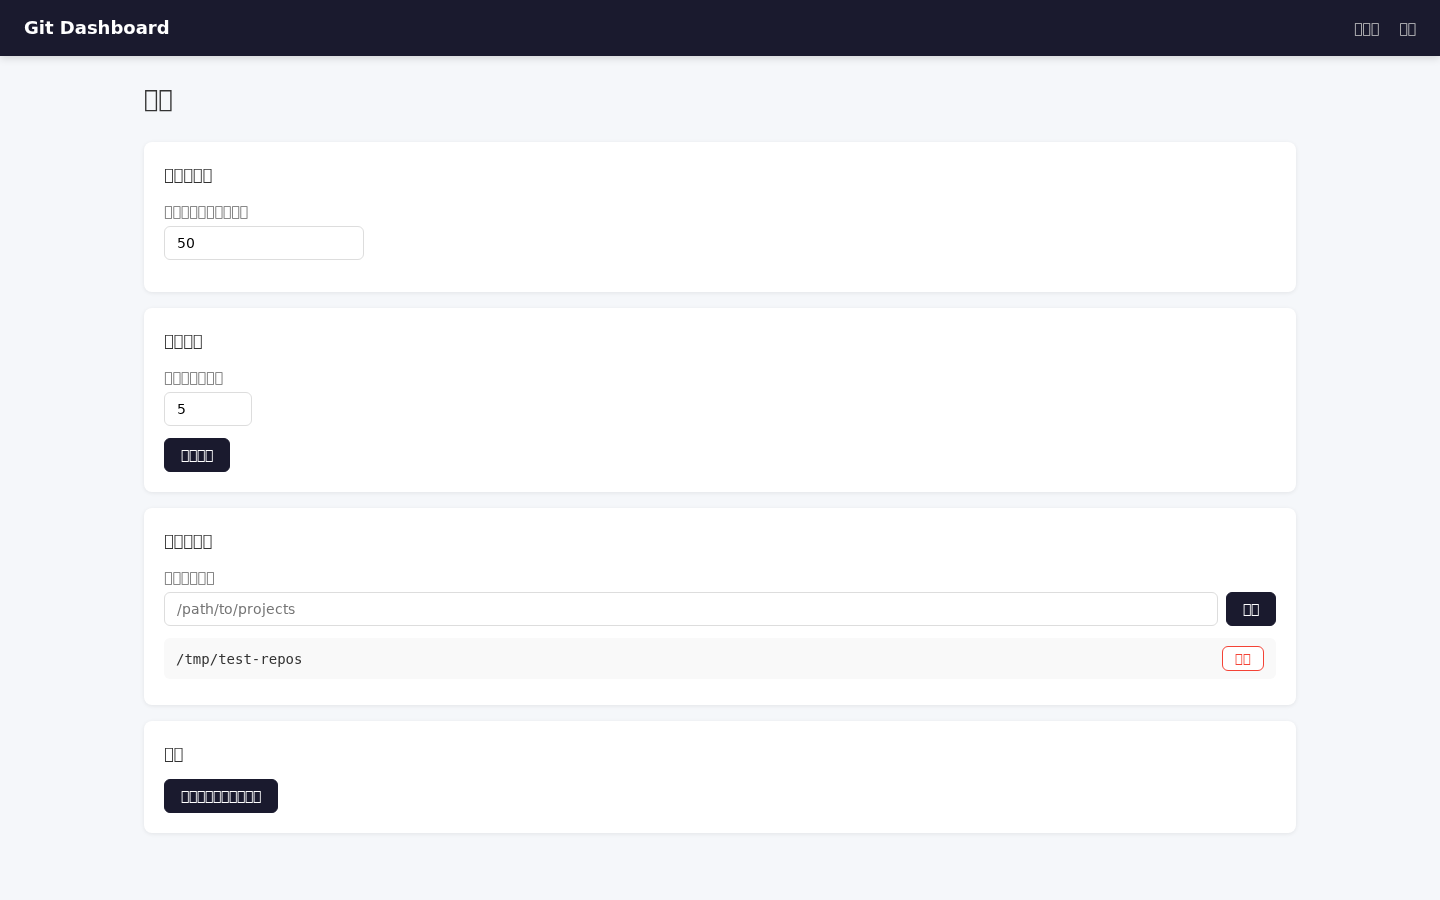
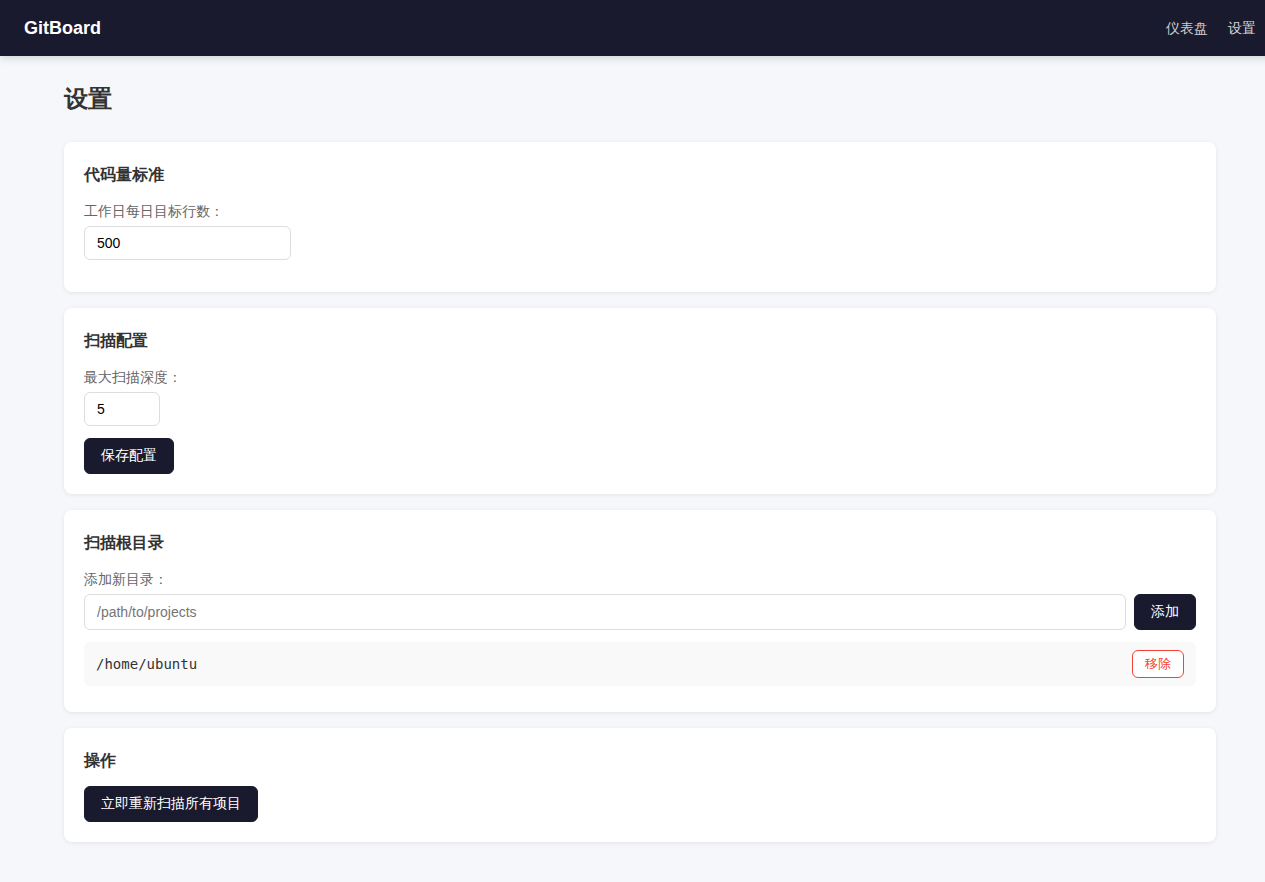
docs: 替换真实截图，修复 API null 崩溃，分离 LICENSE

diff --git a/web/src/api/client.ts b/web/src/api/client.ts
@@ -72,7 +72,7 @@ async function request<T>(url: string, options?: RequestInit): Promise<T> {
 
 export function getProjects(date?: string): Promise<Project[]> {
   const params = date ? `?date=${date}` : ''
-  return request<Project[]>(`/projects${params}`)
+  return request<Project[]>(`/projects${params}`).then(data => data ?? [])
 }
 
 export function getProjectDetail(id: number): Promise<ProjectDetail> {
@@ -81,7 +81,7 @@ export function getProjectDetail(id: number): Promise<ProjectDetail> {
 
 export function getProjectStats(id: number, date?: string): Promise<DailyStat[]> {
   const params = date ? `?date=${date}` : ''
-  return request<DailyStat[]>(`/projects/${id}/stats${params}`)
+  return request<DailyStat[]>(`/projects/${id}/stats${params}`).then(data => data ?? [])
 }
 
 export function updateProjectLevel(id: number, direction: 'up' | 'down'): Promise<{ success: boolean; new_level: number }> {
@@ -118,5 +118,8 @@ export function updateScanRoots(scan_roots: string[]): Promise<{ success: boolea
 
 export function getSummary(date?: string): Promise<Summary> {
   const params = date ? `?date=${date}` : ''
-  return request<Summary>(`/summary${params}`)
+  return request<Summary>(`/summary${params}`).then(data => data ?? {
+    date: '', repo_count: 0, total_files: 0, total_added: 0,
+    total_deleted: 0, my_added: 0, my_deleted: 0, my_files: 0, is_workday: false,
+  })
 }

diff --git a/README.md b/README.md
@@ -179,6 +179,4 @@ GitBoard 使用智能分组算法自动识别项目边界：
 
 设置环境变量 `PORT=自定义端口` 后启动，或直接修改 `defaultPort` 常量重新编译。
 
-## License
 
-MIT